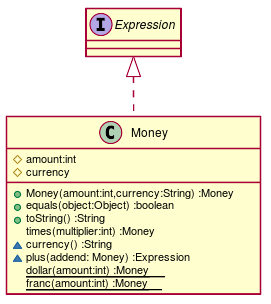
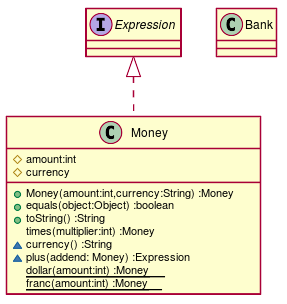
第１２章 設計とメタファー Step12

diff --git a/src/main/java/tdd/money/Bank.java b/src/main/java/tdd/money/Bank.java
@@ -1,0 +1,4 @@
+package tdd.money;
+
+class Bank {
+}

diff --git a/docs/TDD.md b/docs/TDD.md
@@ -44,7 +44,7 @@
 ### クラス図
   
 
-![](./assets/0285dfa24ee25b18e00bb369b57da6820.png?0.6169600033363112)  
+![](./assets/0285dfa24ee25b18e00bb369b57da6820.png?0.3626972283541068)  
 ### シーケンス図
   
   
@@ -131,6 +131,15 @@ class Money implements Expression {
 package tdd.money;
   
 interface Expression {
+}
+  
+```  
+  
+`Bank.java`
+```java
+package tdd.money;
+  
+class Bank {
 }
   
 ```  

diff --git a/docs/src/TDD.md b/docs/src/TDD.md
@@ -58,6 +58,8 @@ class Money {
   {static} franc(amount:int) :Money  
 }
 interface Expression
+class Bank {
+}
 Expression <|.. Money
 ```
 ### シーケンス図
@@ -71,6 +73,9 @@ Expression <|.. Money
 
 `Expression.java`
 @import "../../src/main/java/tdd/money/Expression.java"
+
+`Bank.java`
+@import "../../src/main/java/tdd/money/Bank.java"
 
 
 ## 振り返り
